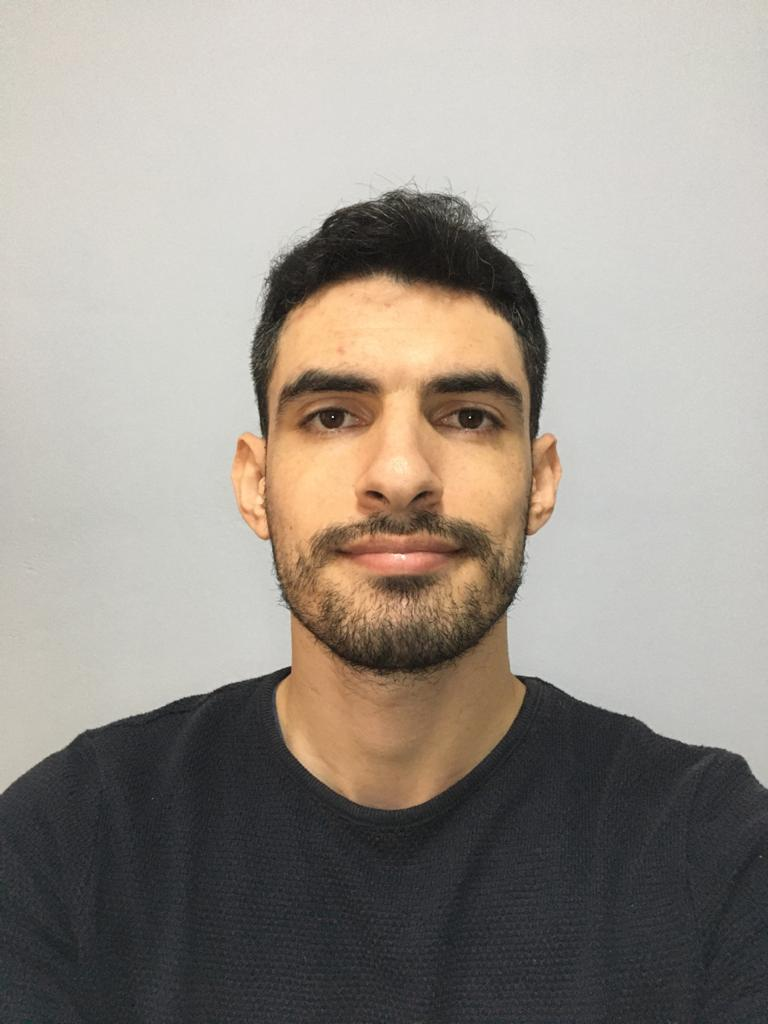
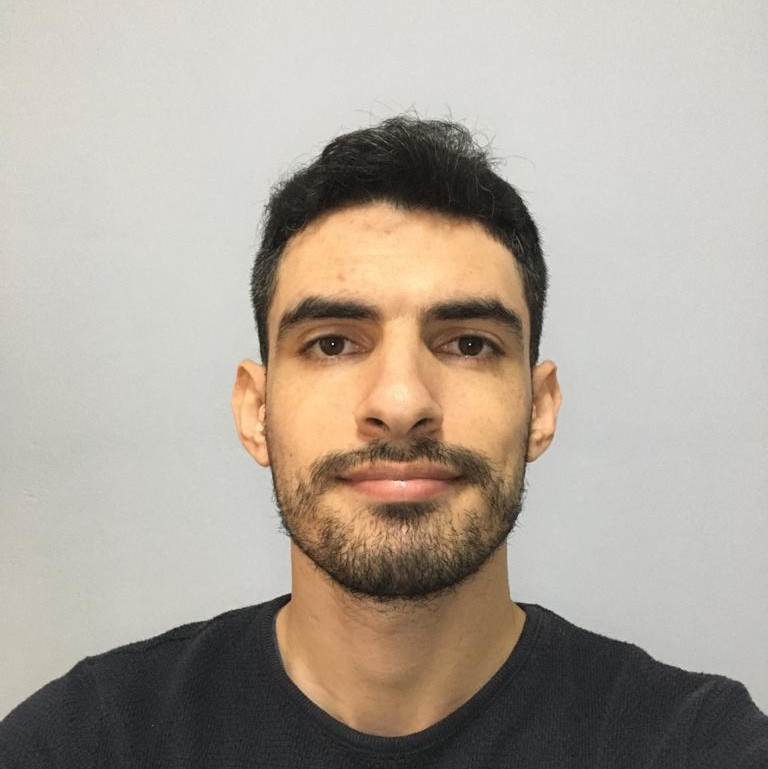
Adiciona formatação css ao arquivo index.html e edita a foto para o formato quadrado

Changed region(s): [[0.0, 0.2809, 1.0, 1.0], [0.3438, 0.1248, 0.6875, 0.2809], [0.4688, 0.9987, 0.5, 1.0]]

diff --git a/index.html b/index.html
@@ -3,28 +3,44 @@
 <head>
     <meta charset="UTF-8">
     <title>Rodolfo Braga</title>
+    <style>
+        body {
+            background-color: #98C1D9;
+        }
+        .name {
+            font-family: Helvetica, sans-serif;
+            padding: 15px 30px;
+            background-color: #293241;
+            color: #E0FBFC;
+        }
+        .photo {
+            background-color: #EE6C4D;
+            border-style: inset;
+            border-radius: 50%;
+            margin-bottom: 20px;
+        }
+        .subheading {
+            color: #3D5A80;
+            font-family: 'Trebuchet MS', sans-serif;
+        }
+    </style>
 </head>
 <body>
-    <h1>Rodolfo Braga</h1>
-        <a href="#sobremim">Sobre mim</a>
+    <h1 class="name">Rodolfo Braga</h1>
+        <img class="photo" src="Foto_perfil.jpeg" alt="Foto do dono da página" width="300px" id="#foto">
+        <p><a href="#sobremim">Sobre mim</a></p>
+        <p><a href="#habilidades">Minhas habilidades</a></p>
+        <p><a href="#recomendacoes">Minhas recomendações</a></p>
         <br>
-        <a href="#habilidades">Minhas habilidades</a>
-        <br>
-        <a href="#recomendacoes">Minhas recomendações</a>
-        <br>
-        <br>
-        <img src="Foto_perfil.jpeg" alt="Foto do dono da página" width="300px">
-        <br>
-        <br>
-    <h2 id="sobremim">Sobre mim</h2>
-        <ul>
+    <h2 class="subheading" id="sobremim">Sobre mim</h2>
+        <ul class="list">
             <li>Brasileiro</li>
             <li>Mogi das Cruzes-SP</li>
             <li>Nessa jornada desde o século passado!</li>
             <li>Estudante de Desenvolvimento Web na <a href="https://www.betrybe.com">Trybe</a></li>
         </ul>
-    <h2 id="habilidades">Minhas habilidades</h2>
-        <ul>
+    <h2 class="subheading" id="habilidades">Minhas habilidades</h2>
+        <ul class="list">
             <li>Bash</li>
             <li>Git & GitHub</li>
             <li>HTML</li>
@@ -32,12 +48,14 @@
             <li>Javascript</li>
             <li>Inglês</li>
         </ul>
-    <h2 id="recomendacoes">Minhas recomendações</h2>
+    <h2 class="subheading" id="recomendacoes">Minhas recomendações</h2>
         <ul>
-            <li>Brasileiro</li>
-            <li>Mogi das Cruzes-SP</li>
-            <li>Nessa jornada desde o século passado!</li>
-            <li>Estudante de Desenvolvimento Web na <a href="https://www.betrybe.com">Trybe</a></li>
+            <li>Para ler: <a href="">Blog</a></li>
+            <li>Para assistir: <a href="">Canal</a></li>
+            <li>Para ouvir: <a href="">Podcast</a></li>
         </ul>
+        <br>
+        <br>
+    <a href="foto">Clique aqui para voltar ao topo</a>
 </body>
 </html>
